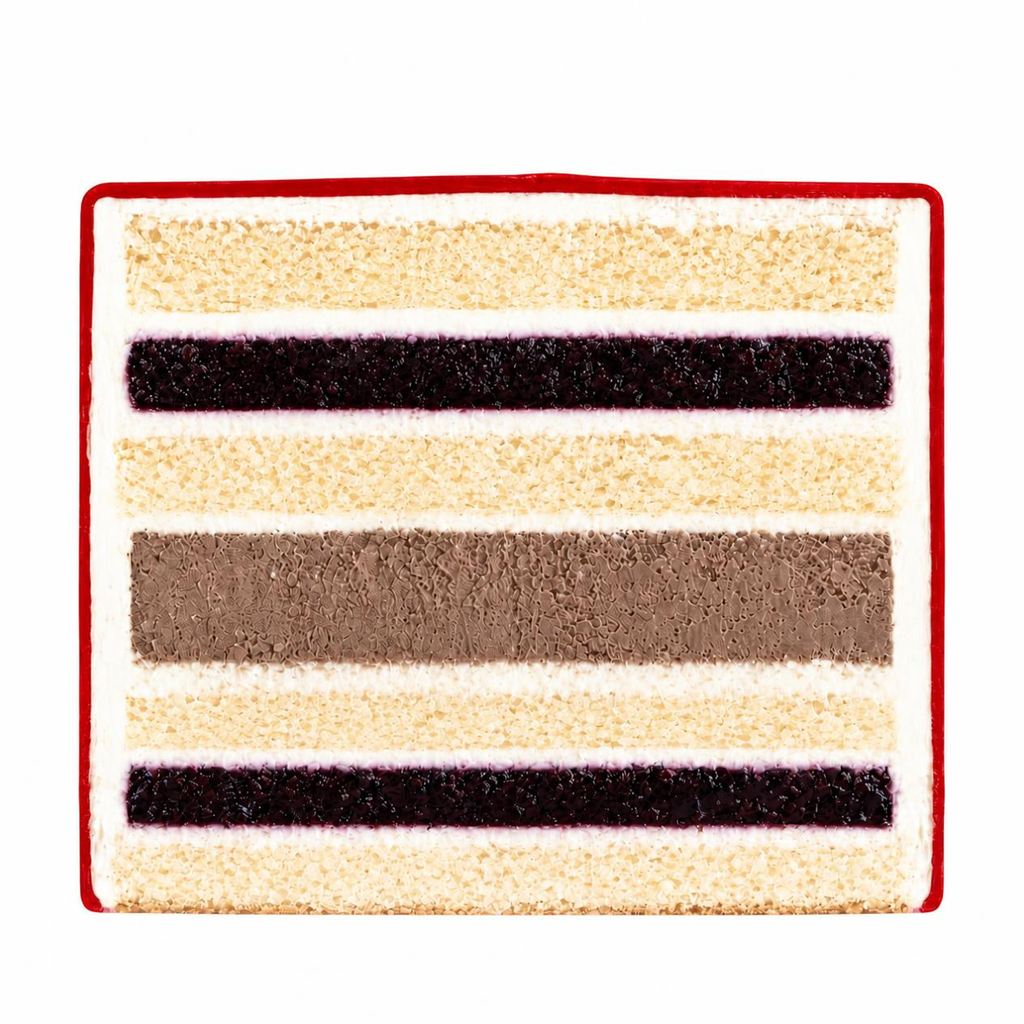
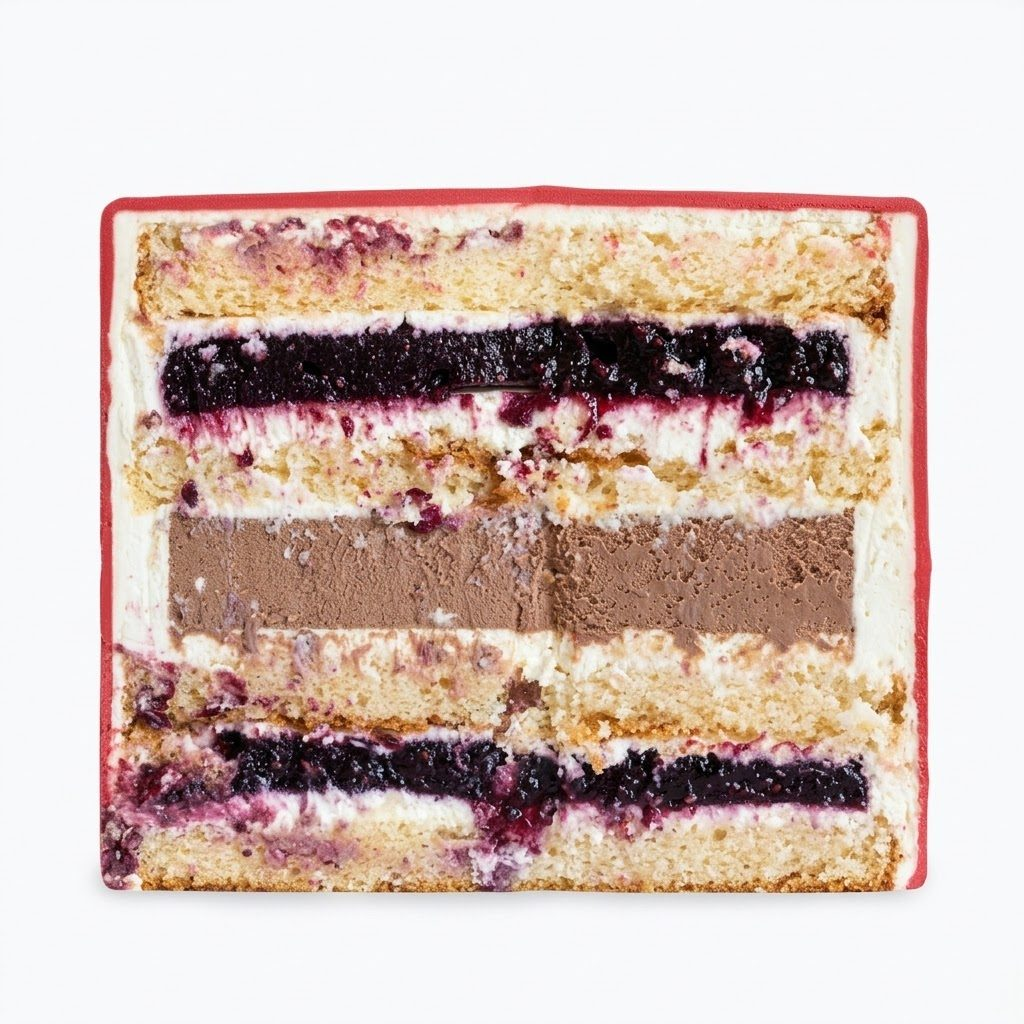
Rebuild the phone home page, and restore two cake photos
Two photos go back to the crop from the first commit: the later pass
had flattened them into something plasticky — sponge reading as
gravel, layers as flat geometry. Recompressed to 150 and 182 KB so
they sit with the rest of the catalogue rather than undoing the
weight work.

Phone home page follows a different order now: the desserts come
first, the description under them, buttons last. The wordmark is not
repeated — it already sits in the header, and a second copy at that
size filled half the screen ahead of the thing people came for. It
stays in the markup for readers and search, just not on screen.

Carousel arrows are smaller (34px) and 54px closer together. The
name between them is capped at the width of the longest in the
catalogue, so it still cannot reach them.

The scroll cue drops to 9px, and 8px on a phone.

The footer now says the dessert photos were processed by AI for the
site, and points to Facebook for the real ones. Smallest type in the
footer, below the terms and quieter than the copyright: it should be
findable and honest without being the first thing anyone meets.

diff --git a/style.css b/style.css
@@ -231,6 +231,9 @@ a, button { -webkit-tap-highlight-color: transparent; }
 .hero-scroll {
   position: absolute; left: 50%; bottom: clamp(14px, 2.6vh, 30px);
   color: var(--muted); pointer-events: none;
+  /* Дрібніше за решту мікротексту: це найтихіша річ на екрані, вона
+     має ловитись боковим зором і не більше. */
+  font-size: 9px; letter-spacing: .1em;
   transform: translateX(-50%);
 }
 @media (prefers-reduced-motion: no-preference) {
@@ -319,19 +322,20 @@ a, button { -webkit-tap-highlight-color: transparent; }
 }
 .hero-arrow {
   position: absolute; top: 50%; left: 50%;
-  width: 40px; height: 40px; border-radius: 50%;
+  width: 34px; height: 34px; border-radius: 50%;
   border: 1px solid var(--line); background: var(--bg);
   display: flex; align-items: center; justify-content: center;
-  font-size: 20px; line-height: 1;
+  font-size: 17px; line-height: 1;
   transition: border-color 140ms linear, color 140ms linear;
 }
-.hero-arrow.prev { transform: translate(calc(-50% - 150px), -50%); }
-.hero-arrow.next { transform: translate(calc(-50% + 150px), -50%); }
+.hero-arrow.prev { transform: translate(calc(-50% - 120px), -50%); }
+.hero-arrow.next { transform: translate(calc(-50% + 120px), -50%); }
 .hero-arrow:hover { border-color: var(--ink); }
 
 /* Ширину назви обмежуємо навмисно: так вона фізично не дотягнеться до
-   стрілок і в найдовшому випадку просто перенесеться в два рядки. */
-.hero-meta { text-align: center; max-width: 240px; }
+   стрілок і в найдовшому випадку просто перенесеться в два рядки.
+   190px — найдовша назва в каталозі («Червоний оксамит») плюс запас. */
+.hero-meta { text-align: center; max-width: 190px; }
 .hero-name  { display: block; font-size: 15px; font-weight: 600; line-height: 1.3; }
 .hero-price { display: block; font-size: 14px; color: var(--muted); margin-top: 3px; }
 
@@ -660,10 +664,21 @@ a, button { -webkit-tap-highlight-color: transparent; }
 /* Копірайт — не капсом: домен і «All rights reserved» у верхньому
    регістрі виглядають крикливо для службового рядка. Окремий рядок
    під колонками, відбитий волосяною лінією. */
+/* Примітка про оброблені фото — найтихіший рядок у підвалі, тихіший
+   навіть за копірайт. */
+.ftr-note {
+  max-width: var(--max); margin: clamp(18px, 1.8vw, 24px) auto 0;
+  padding: 0 var(--pad);
+  font-size: 10px; line-height: 1.5;
+  color: rgba(255, 255, 255, .4);
+}
+.ftr-note a { color: rgba(255, 255, 255, .6); text-underline-offset: 3px; }
+.ftr-note a:hover { color: #FFF; text-decoration: underline; }
+
 /* Без відбивної лінії: службовий рядок і так відділений відступом, а
    риска через увесь підвал робила з нього другу «секцію». */
 .ftr-bottom {
-  max-width: var(--max); margin: clamp(18px, 1.8vw, 24px) auto 0;
+  max-width: var(--max); margin: clamp(8px, 1vw, 12px) auto 0;
   padding: 0 var(--pad);
   display: flex; flex-wrap: wrap; align-items: baseline;
   justify-content: space-between; gap: 4px 24px;
@@ -904,11 +919,24 @@ a, button { -webkit-tap-highlight-color: transparent; }
   /* Герой на телефоні поки просто складається в колонку: карусель
      робилась під десктоп, під вузький екран її ще належить окремо
      обіграти. */
-  .hero-in { grid-template-columns: 1fr; gap: clamp(24px, 5vh, 40px); }
+  /* На телефоні порядок інший: спершу самі десерти, під ними опис,
+     кнопки — в самому низу. Назву не повторюємо — вона вже стоїть у
+     шапці, а другий раз тим самим шрифтом займала пів екрана перед
+     тим, заради чого сюди прийшли. Лишаємо її для читалок і пошуку. */
+  .hero-in { grid-template-columns: 1fr; gap: clamp(20px, 4vh, 34px); }
+  .hero-stage { order: -1; }
+
+  .hero .t-hero {
+    position: absolute; width: 1px; height: 1px;
+    margin: -1px; padding: 0; overflow: hidden;
+    clip-path: inset(50%); white-space: nowrap;
+  }
+
   /* Міняємо саме --w, а не height: із неї рахується й ширина кадру,
      інакше він лишається десктопним і вилазить за екран. */
   .hero-slides { --w: min(300px, 76vw); }
   .hero-lead { max-width: none; }
+  .hero-scroll { font-size: 8px; }
 
   /* Порядок керування: спершу чіпи категорій, сортування під ними
      окремим рядком, а не притиснуте до правого краю. */

diff --git a/i18n.js b/i18n.js
@@ -21,6 +21,11 @@
     contacts:    'Контакти',
     categories:  'Категорії',
     home:        'Головна',
+    /* Знімки для каталогу оброблені нейромережею — сказати про це
+       треба, але тихо: у футері, дрібним, поруч зі службовим рядком.
+       Після тексту йде посилання на Facebook, тож речення обривається
+       прийменником навмисно. */
+    aiNote:      'Фото десертів оброблені штучним інтелектом для сайту. Живі знімки — у',
 
     /* ⚠ ЧЕРНЕТКА. Умови вигадані як заглушка — замовниця має
        підтвердити терміни, розмір передоплати й зону доставки. */
@@ -81,6 +86,7 @@
     contacts:    'Kontakt',
     categories:  'Kategorie',
     home:        'Główna',
+    aiNote:      'Zdjęcia deserów opracowane przez sztuczną inteligencję na potrzeby strony. Prawdziwe zdjęcia — na',
 
     orderTerms:    'Warunki zamówienia',
     orderList: [

diff --git a/app.js b/app.js
@@ -272,6 +272,12 @@
          колонці бренду: це службовий рядок про весь сайт, і в колонці
          він читався як частина контактів кондитерки. Підпис автора —
          на тому ж рівні праворуч. */
+      /* Примітка про оброблені фото. Стоїть у футері й найтихішим
+         кеглем: сказати треба чесно, але це не те, з чим людина має
+         зустрітись першим ділом на головній. */
+      + '<div class="ftr-note">' + esc(L('aiNote')) + ' '
+      + '<a href="' + esc(CONTACTS[0].href) + '" target="_blank" rel="noopener">Facebook</a>'
+      + '</div>'
       + '<div class="ftr-bottom">'
       + '<span class="ftr-copy">' + esc(copy) + '</span>'
       + '<span class="ftr-copy ftr-credit">Created by '
